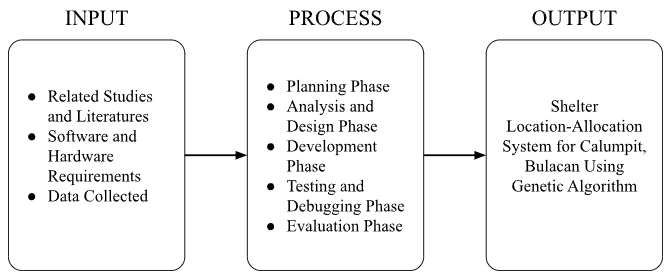
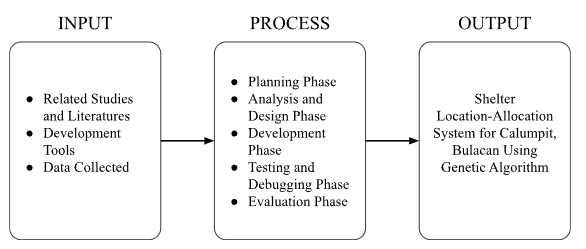
updated IPO; figure sizes

Changed region(s): [[0.0, 0.0281, 1.0, 0.9839]]

diff --git a/Thesis Final Manuscript/appendix.tex b/Thesis Final Manuscript/appendix.tex
@@ -10,49 +10,49 @@
 			\centering
 			\caption{Genetic Algorithm}
 			\label{genalgoFlow}
-			\includegraphics[width=\linewidth]{appendix/Genetic Algorithm Flowchart}
+			\includegraphics[width=\textwidth,height=\textheight,keepaspectratio]{appendix/Genetic Algorithm Flowchart}
 		\end{figure}
 		
 		\begin{figure}[h]
 			\centering
 			\caption{Genetic Algorithm - Selection}
 			\label{selectFlow}
-			\includegraphics[width=\linewidth]{appendix/select f}
+			\includegraphics[width=\textwidth,height=\textheight,keepaspectratio]{appendix/select f}
 		\end{figure}
 		
 		\begin{figure}[h]
 			\centering
 			\caption{Genetic Algorithm - Crossover}
 			\label{crossFlow}
-			\includegraphics[width=\linewidth]{appendix/crossover f}
+			\includegraphics[width=\textwidth,height=\textheight,keepaspectratio]{appendix/crossover f}
 		\end{figure}
 		
 		\begin{figure}[h]
 			\centering
 			\caption{Genetic Algorithm - Mutation}
 			\label{mutateFlow}
-			\includegraphics[width=\linewidth]{appendix/mutate f}
+			\includegraphics[width=\textwidth,height=\textheight,keepaspectratio]{appendix/mutate f}
 		\end{figure}
 		
 		\begin{figure}[h]
 			\centering
 			\caption{Model Modification Feature}
 			\label{modelFLow}
-			\includegraphics[width=\linewidth]{appendix/modelset f}
+			\includegraphics[width=\textwidth,height=\textheight,keepaspectratio]{appendix/modelset f}
 		\end{figure}
 		
 		\begin{figure}[h]
 			\centering
 			\caption{Data Simulation Feature}
 			\label{simFlow}
-			\includegraphics[width=\linewidth]{appendix/datasim f}
+			\includegraphics[width=\textwidth,height=\textheight,keepaspectratio]{appendix/datasim f}
 		\end{figure}
 		
 		\begin{figure}[h]
 			\centering
 			\caption{Report Protection Feature}
 			\label{protectFlow}
-			\includegraphics[width=\linewidth]{appendix/protect f}
+			\includegraphics[width=\textwidth,height=\textheight,keepaspectratio]{appendix/protect f}
 		\end{figure}
 		
 		

diff --git a/Thesis Final Manuscript/chapter4.tex b/Thesis Final Manuscript/chapter4.tex
@@ -125,7 +125,7 @@
 		\begin{tabular}{|c|c|c|}
 			\hline
 			\textbf{Community} & \textbf{Shelter Assigned} & \textbf{Level} \\ \hline
-			Calizon & \multirow{5}{*}{Dona Damiana Elem School} & \multirow{5}{*}{Level 1} \\ \cline {1-1} 
+			Calizon & \multirow{5}{*}{Doña Damiana Elem School} & \multirow{5}{*}{Level 1} \\ \cline {1-1} 
 			Frances & & \\ \cline {1-1} 
 			Gatbuca & & \\ \cline {1-1} 
 			Meysulao & & \\ \cline {1-1} 
